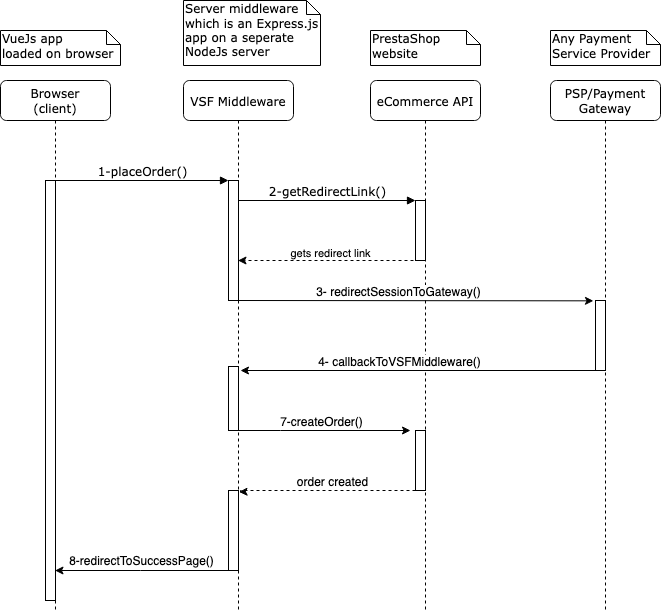
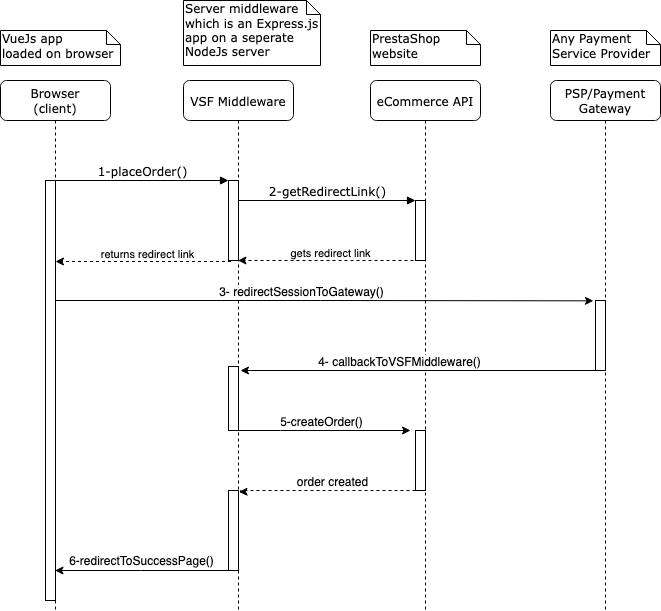
docs: doc for redirect payment option updated

Changed region(s): [[0.3328, 0.4664, 0.7262, 0.4975], [0.1513, 0.4043, 0.3026, 0.4354], [0.4236, 0.6841, 0.4539, 0.7152]]

diff --git a/docs/guide/payment-options.md b/docs/guide/payment-options.md
@@ -10,3 +10,10 @@ Here I just cover the redirect method, because most of the current PrestaShop mo
 
 ## Redirect Method
 ![An image](./../img/vsf-redirect-payment.png)
+
+1. Customer clicks on Place Order in payment page. The request will be sent to the middlewre server (normally this happens when user clicks on something, like when user clicks on product detail page).
+2. Middleware logic (in app-client) calls our eCommerce API (PrestaShop) to get a redirect link to the payment gateway. Probably, we need to pass callback/redirect back link to our website (which is a middleware API).
+3. User will be redirected to payment gateway page.
+4. Gateway will call our callback API (our ExpressJs Middleware), regardless of being payment success or failure.
+5. Now it's time to create order on our eCommerce platform. In this step, we call our eCommerce API and will pass the required (all) data returned from payment gateway. Our eCommerce API will create an order and does its logic related to this payment option. The eCommerce API should be designed so that people cannot call it and place an arbitrary order. 
+6. The user will be redirected to success or failure page.
